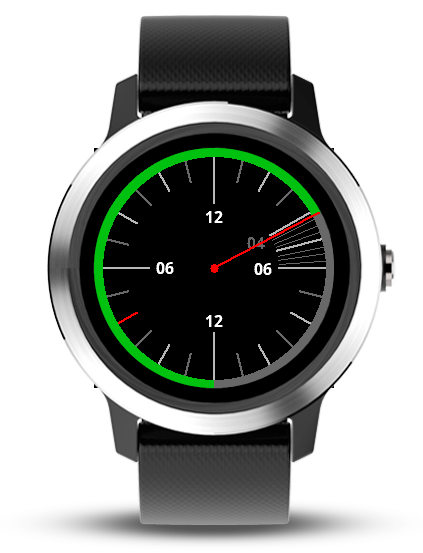
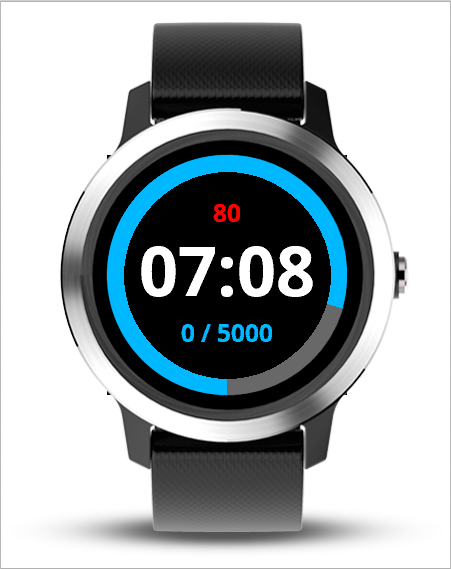
Update latest image

Changed region(s): [[0.0, 0.0, 1.0, 1.0]]

diff --git a/README.md b/README.md
@@ -17,6 +17,19 @@ See the image below
 
 ![Latest Image](https://github.com/joshsamara/SlowWatch/master/imgs/latest.png)
 
+## "Progress Bar"
+
+Theres a day progress bar that follows the hand around the clock. This kind of
+shows how much 'progress' through the day is completed.
+
+This changes colors based on the time of the day.
+
+## Counters
+
+The time has 2 counters - step and heart rate.
+
+# Old Design
+
 ## 24 HR
 
 The face has all 24 hours on it.
@@ -31,9 +44,3 @@ You read it by starting on the bottom and going clockwise
 Additionally, there's a red "minute tick" that rotates around the clock to help
 judge the specific minute.
 
-## "Progress Bar"
-
-Theres a day progress bar that follows the hand around the clock. This kind of
-shows how much 'progress' through the day is completed.
-
-This changes colors based on the time of the day.
